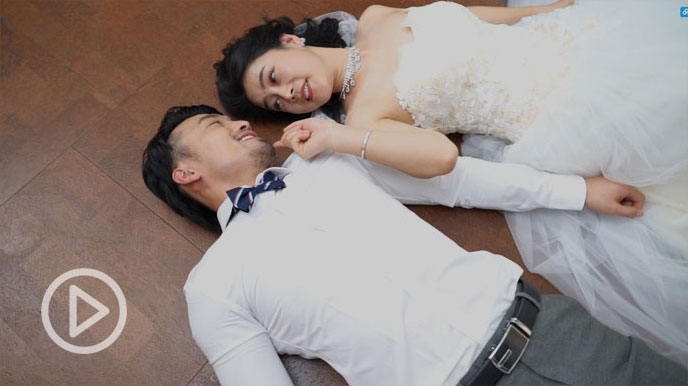
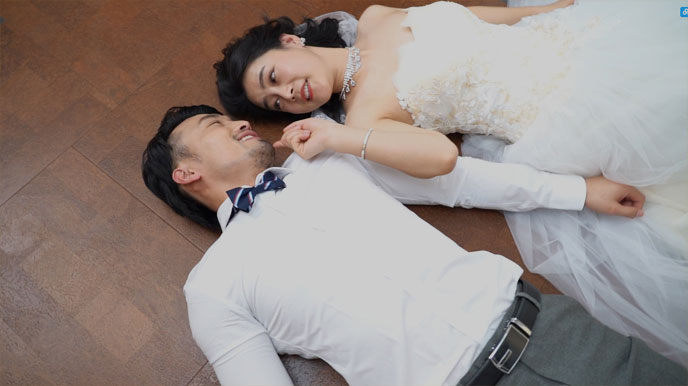
modified video

Changed region(s): [[0.061, 0.6839, 0.1831, 0.9326]]

diff --git a/leu-bg/css/container-wap.css b/leu-bg/css/container-wap.css
@@ -3,16 +3,18 @@ body,button,input,select,textarea{font-family:Tahoma,Helvetica,'\5FAE\8F6F\96C5\
 .pages-index{ text-align: center; margin: auto; background-color: #803f23;  width: 100%;}
 .module-list{ width: 100%;}
 img{width: 100%;}
-.video-img{     cursor: pointer;
+.video-img{cursor: pointer;  padding: 0 14px; box-sizing: border-box;background-color: #f4b836;
 background-color: #803f23;
 box-sizing: border-box;
 overflow: hidden;}
-.video-img>video {
-height: 13rem;
+.video-box{ border: 5px solid #f4b836; box-sizing: border-box;border-bottom-width: 2px; background-color: #f4b836;}
+video {
+width: 100%;
+height: 12rem;
 }
 @media screen and (min-width: 750px) {
 .pages-index{ width: 750px; margin: auto;}
-.video-img{ margin: 0 25px; border: 5px solid #f4b836; width: 700px; background-color: #f4b836; border-bottom-width: 2px;}
+.video-img{ margin: 0 25px; border: 5px solid #f4b836; width: 700px;  border-bottom-width: 2px;}
 .video-img>video {
 height:388px;
 }

diff --git a/leu-bg/index.html b/leu-bg/index.html
@@ -16,7 +16,7 @@
   <div class="module-list"><img src="images/img-02.jpg" alt=""></div>
   <div class="module-list"><img src="images/img-03.jpg" alt=""></div>
   <div class="module-list"><img src="images/img-04.jpg" alt=""></div>
-  <div class="module-list video-img"><video controls="" poster="images/img-05.jpg" src="https://1253473436.vod2.myqcloud.com/e263b6cdvodtransgzp1253473436/dc9daea35285890796937537926/v.f30.mp4"></video></div>
+  <div class="module-list video-img"><div class="video-box"><video controls="" poster="images/img-05.jpg" src="https://1253473436.vod2.myqcloud.com/e263b6cdvodtransgzp1253473436/dc9daea35285890796937537926/v.f30.mp4"></video></div></div>
   <div class="module-list"><img src="images/img-06.jpg" alt=""></div>
   <div class="module-list"><img src="images/img-07.jpg" alt=""></div>
   <div class="module-list"><img src="images/img-08.jpg" alt=""></div>
